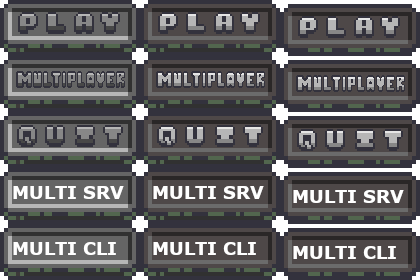
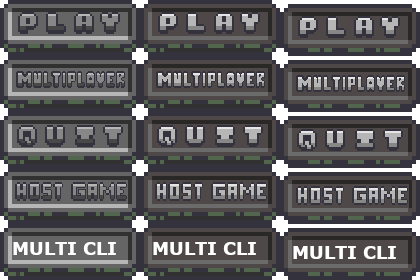
host game button

Changed region(s): [[0.681, 0.6571, 0.9905, 0.7429], [0.3405, 0.6286, 0.65, 0.7143], [0.031, 0.6286, 0.3095, 0.7143]]

diff --git a/src/ui/MultiplayerButton.java b/src/ui/MultiplayerButton.java
@@ -32,7 +32,7 @@ public class MultiplayerButton implements onClick {
     }
 
     private void loadImgs() {
-        imgs = new BufferedImage[2];
+        imgs = new BufferedImage[3];
         BufferedImage temp = LoadSave.GetSpriteAtlas(LoadSave.MENU_BUTTONS);
         for (int i = 0; i < imgs.length; i++) {
             imgs[i] = temp.getSubimage(i * B_WIDTH_DEFAULT, rowIndex * B_HEIGHT_DEFAULT, B_WIDTH_DEFAULT, B_HEIGHT_DEFAULT);
